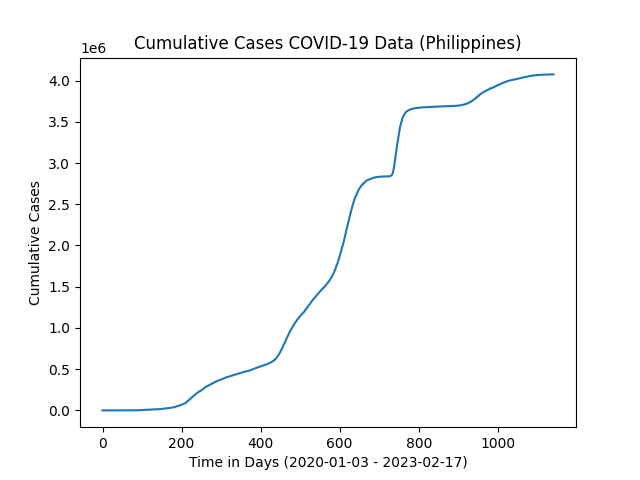
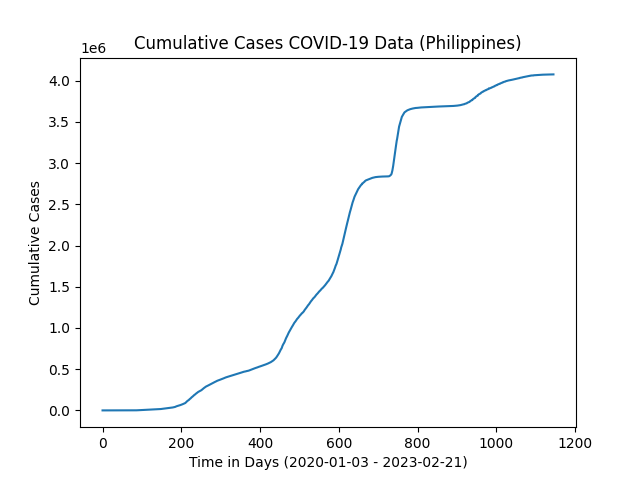
Add Philippines Cumulative Data Forecasting

diff --git a/fitting/data_fit.py b/fitting/data_fit.py
@@ -25,8 +25,8 @@ with tqdm(total=2) as pbar:
 agegroup_lookup = dict(zip(agegroups['Location'], agegroups[['0_9', '10_19', '20_29', '30_39', '40_49', '50_59', '60_69', '70_79', '80_89', '90_100']].values))
 
 # parameters
-country = "Argentina"
-country_data = covid_data[covid_data["Location"] == "Argentina"]
+country = "Philippines"
+country_data = covid_data[covid_data["Location"] == "Philippines"]
 data = country_data["Cumulative_cases"].values
 times = country_data["Date_reported"].values
 plt.title(f'Cumulative Cases COVID-19 Data ({country})')
@@ -38,12 +38,13 @@ plt.savefig(f'fitting\pics\{country}_cumulative_cases.png')
 plt.show(block=False)
 # data = data[:len(data)//3]
 # start at nth day
-data = data[650:]
-times = times[650:]
+saved_data = data
+data = data[:700]
+times = times[:700]
 print(len(data))
 data -= data[0] # start cumulative sum at 0
-agegroups = agegroup_lookup["Argentina"]
-outbreak_shift = 200  # shift the outbreak by this many days (negative values are allowed)
+agegroups = agegroup_lookup["Philippines"]
+outbreak_shift = 300  # shift the outbreak by this many days (negative values are allowed)
 params_init_min_max = {"beta": (0.9, 0.1, 2), "zeta": (1./10, 1./50, 1), "mu": (1./60, 1./300, 1./5)}  # form: {parameter: (initial guess, minimum value, max value)}
      
 
@@ -157,4 +158,28 @@ plt.xlabel('Time (Days)')
 plt.ylabel('Amount of Population (People)')
 plt.autoscale()
 plt.savefig(f'fitting\pics\{country}.png')
+plt.show(block=False)
+
+#Plot Cumulative Infections Predicted
+t, N, S, E, I, Q, R, r_vals = Model(len(saved_data)+outbreak_shift, agegroups, beta, phi, zeta, gamma, kappa, mu)
+
+# Undo Modelling Outbreak Shift
+t = t[outbreak_shift:]
+t -= t[0] + 1 # shift the x axis to start at 1
+S = S[outbreak_shift:]
+E = E[outbreak_shift:]
+I = I[outbreak_shift:]
+Q = Q[outbreak_shift:]
+R = R[outbreak_shift:]
+r_vals = r_vals[outbreak_shift:]
+
+plt.figure()
+plt.plot(t, saved_data, label = "Actual Cumulative Infections")
+plt.plot(t, I.cumsum(), label = "Predicted Cumulative Infections")
+plt.legend(loc='upper left')
+plt.title(f'Predicted Cumulative Infections over Time ({country})')
+plt.xlabel('Time (Days)')
+plt.ylabel('Cumulative Infections')
+plt.autoscale()
+plt.savefig(f'fitting\pics\{country}_Cumulative.png')
 plt.show()
